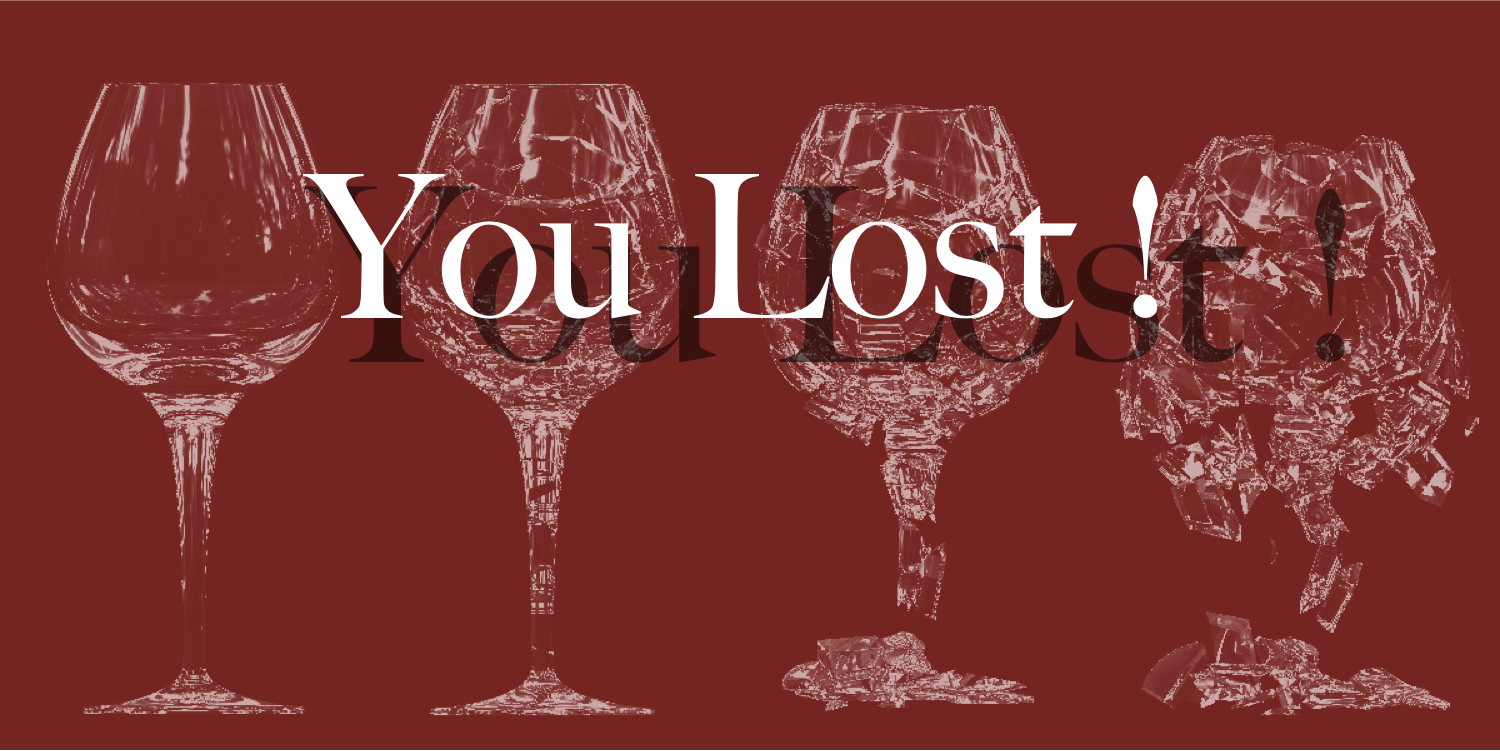
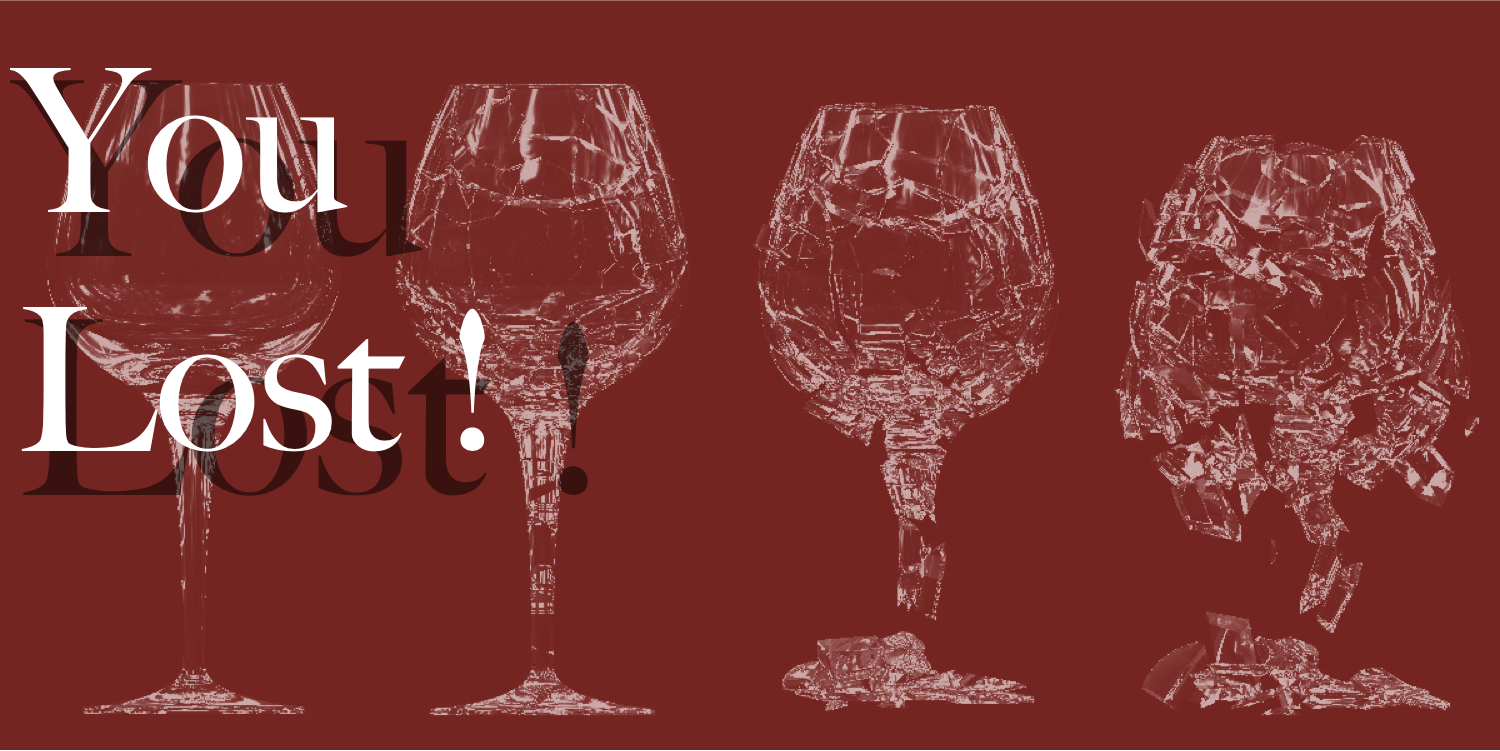
Fixes to the win and lost panel

diff --git a/crystal-crush/public_html/js/Lvl_panels/WinPanel.js b/crystal-crush/public_html/js/Lvl_panels/WinPanel.js
@@ -22,27 +22,29 @@ CrystalCrush.Win.prototype = {
         this.winMenu = game.add.sprite(canvasWidth / 2, canvasHeight / 2, 'win');
         this.winMenu.anchor.setTo(0.5, 0.5);
         this.winMenu.width = canvasWidth;
-        this.winMenu.height = canvasWidth * WIN_MENU_HEIGHT / WIN_MENU_WIDTH;
-            
+//        this.winMenu.height = canvasWidth * WIN_MENU_HEIGHT / WIN_MENU_WIDTH;
+        this.winMenu.height = canvasHeight;
+
         //Buttons
+        var rowHeight = canvasHeight / 7;
         var buttonWidth = canvasWidth * 0.15;
         var buttonHeight = buttonWidth * WIN_BUTTON_HEIGHT / WIN_BUTTON_WIDTH;
-        this.buttonPlayAgain = game.add.button(canvasWidth / 2 - buttonWidth / 2, canvasHeight / 2, 'playAgain', this.playAgain, this, 1, 0, 0);
+        this.buttonPlayAgain = game.add.button(canvasWidth / 2 - buttonWidth / 2, 2 * rowHeight + margin, 'playAgain', this.playAgain, this, 1, 0, 0);
         this.buttonPlayAgain.anchor.setTo(0.5, 0.5);
         this.buttonPlayAgain.height = buttonHeight;
         this.buttonPlayAgain.width = buttonWidth;
 
-        this.buttonNextLevel = game.add.button(canvasWidth / 2 + buttonWidth / 2 + margin, canvasHeight / 2, 'nextLevel', this.nextLevel, this, 1, 0, 0);
+        this.buttonNextLevel = game.add.button(canvasWidth / 2 + buttonWidth / 2 + margin, 2 * rowHeight + margin, 'nextLevel', this.nextLevel, this, 1, 0, 0);
         this.buttonNextLevel.anchor.setTo(0.5, 0.5);
         this.buttonNextLevel.height = buttonHeight;
         this.buttonNextLevel.width = buttonWidth;
-        
-        this.buttonBackToMenu = game.add.button(canvasWidth / 2, canvasHeight / 2 + margin + this.buttonPlayAgain.height, 'backToMenu', this.backToMenu, this, 1, 0, 0);
+
+        this.buttonBackToMenu = game.add.button(canvasWidth / 2, this.buttonPlayAgain.y + this.buttonPlayAgain.height + margin, 'backToMenu', this.backToMenu, this, 1, 0, 0);
         this.buttonBackToMenu.anchor.setTo(0.5, 0.5);
         this.buttonBackToMenu.height = buttonHeight;
         this.buttonBackToMenu.width = buttonWidth;
 
-        var buttonDim = canvasWidth * 0.05;
+        var buttonDim = buttonHeight;
         this.buttonShareFb = game.add.button(canvasWidth / 2, this.buttonBackToMenu.y + this.buttonBackToMenu.height + margin, 'shareFb', this.shareFb, this, 1, 0, 0);
         this.buttonShareFb.anchor.setTo(0.5, 0.5);
         this.buttonShareFb.height = buttonDim;

diff --git a/crystal-crush/public_html/js/Lvl_panels/LostPanel.js b/crystal-crush/public_html/js/Lvl_panels/LostPanel.js
@@ -23,26 +23,27 @@ CrystalCrush.Lost.prototype = {
         lostMenu.anchor.setTo(0.5, 0.5);
         lostMenu.width = canvasWidth;
         lostMenu.height = canvasWidth * LOST_MENU_HEIGHT / LOST_MENU_WIDTH;
-        
+
         //Buttons
         var buttonWidth = canvasWidth * 0.15;
         var buttonHeight = buttonWidth * LOST_BUTTON_HEIGHT / LOST_BUTTON_WIDTH;
-        this.buttonPlayAgain = this.game.add.button(canvasWidth / 2, canvasHeight / 2, 'playAgain', this.playAgain, this, 1, 0, 0);
+        var rowHeight = canvasHeight / 6;
+        this.buttonPlayAgain = game.add.button(canvasWidth / 2 - buttonWidth / 2, 2 * rowHeight + margin, 'playAgain', this.playAgain, this, 1, 0, 0);
         this.buttonPlayAgain.anchor.setTo(0.5, 0.5);
         this.buttonPlayAgain.height = buttonHeight;
         this.buttonPlayAgain.width = buttonWidth;
-        
-        this.buttonBackToMenu = game.add.button(canvasWidth / 2, canvasHeight / 2 + margin + this.buttonPlayAgain.height, 'backToMenu', this.backToMenu, this, 1, 0, 0);
+
+        this.buttonBackToMenu = game.add.button(canvasWidth / 2 + buttonWidth / 2 + margin, 2 * rowHeight + margin, 'nextLevel', this.nextLevel, this, 1, 0, 0);
         this.buttonBackToMenu.anchor.setTo(0.5, 0.5);
         this.buttonBackToMenu.height = buttonHeight;
         this.buttonBackToMenu.width = buttonWidth;
-        
-        var buttonDim = canvasWidth * 0.05;
+
+        var buttonDim = buttonHeight;
         this.buttonShareFb = game.add.button(canvasWidth / 2, this.buttonBackToMenu.y + this.buttonBackToMenu.height + margin, 'shareFb', this.shareFb, this, 1, 0, 0);
         this.buttonShareFb.anchor.setTo(0.5, 0.5);
         this.buttonShareFb.height = buttonDim;
         this.buttonShareFb.width = buttonDim;
-        
+
         //Score
         this.score_txt = game.add.text(canvasWidth / 2, this.buttonShareFb.y + this.buttonShareFb.height + margin, 'Your Score : ' + scorePanel.score_general, style1);
         this.score_txt.anchor.setTo(0.5, 0.5);
